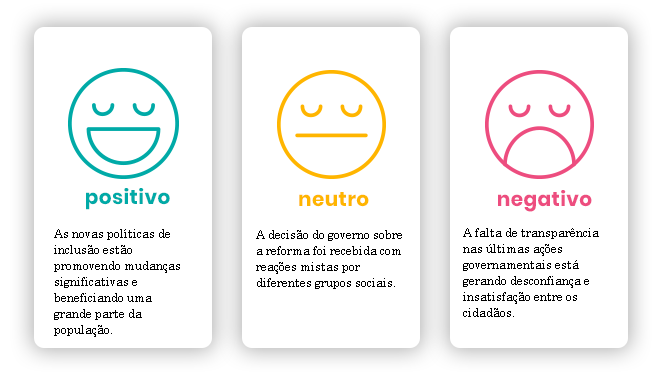
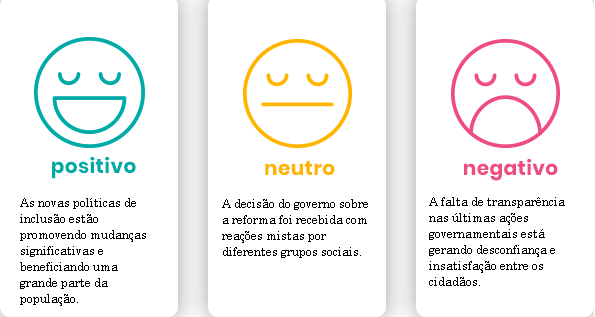
style: update image to HTML page

diff --git a/src/public/views/index.html b/src/public/views/index.html
@@ -53,10 +53,15 @@
         
         img {
           display: block;
-          margin: 50% auto;
+          margin: 0 auto;
           width: 100%; /* A imagem ocupará 100% da largura do seu container */
           max-width: 600px; /* A imagem não ultrapassará 600px de largura */
           height: auto; /* Mantém a proporção da imagem */
+          border: 1px solid #111;
+
+          @media (max-width: 800px) {
+          margin: 50% auto;
+          }
         }
     </style>
 </head>
